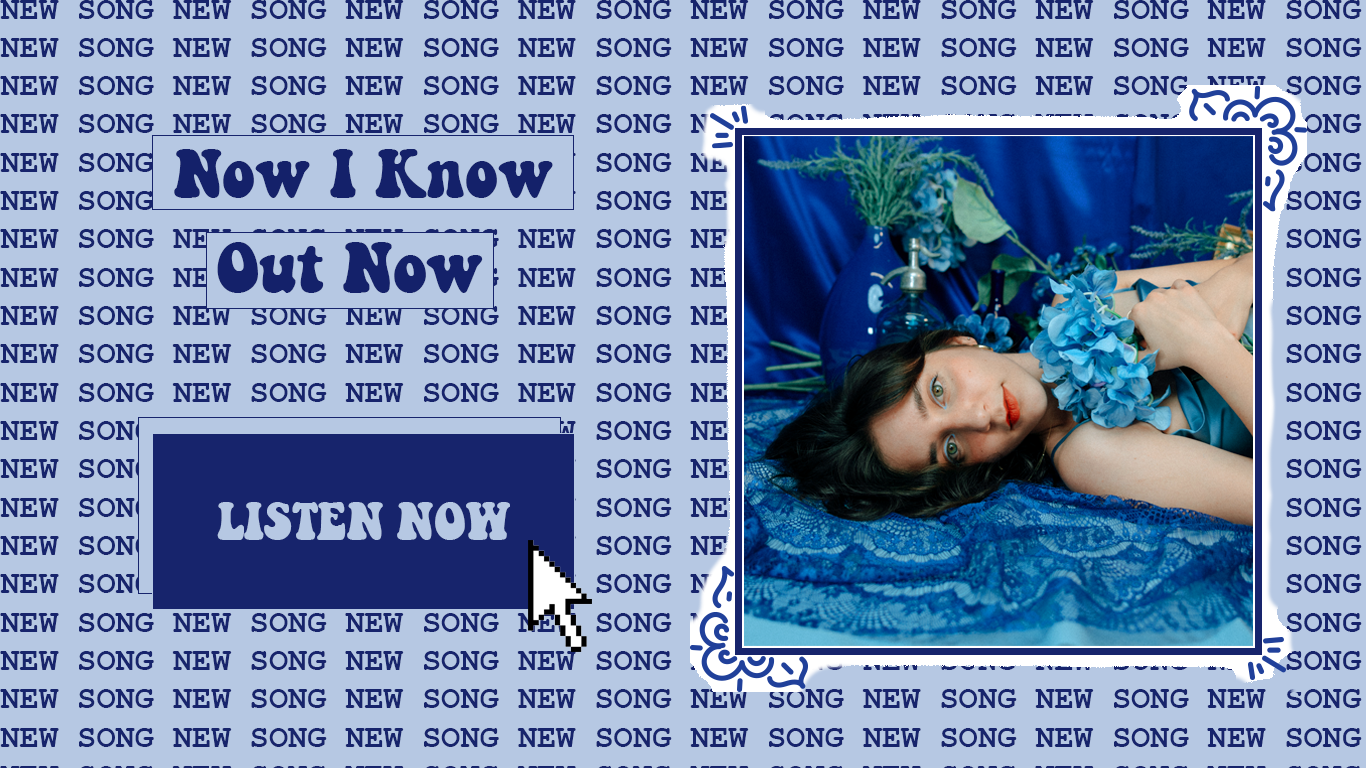
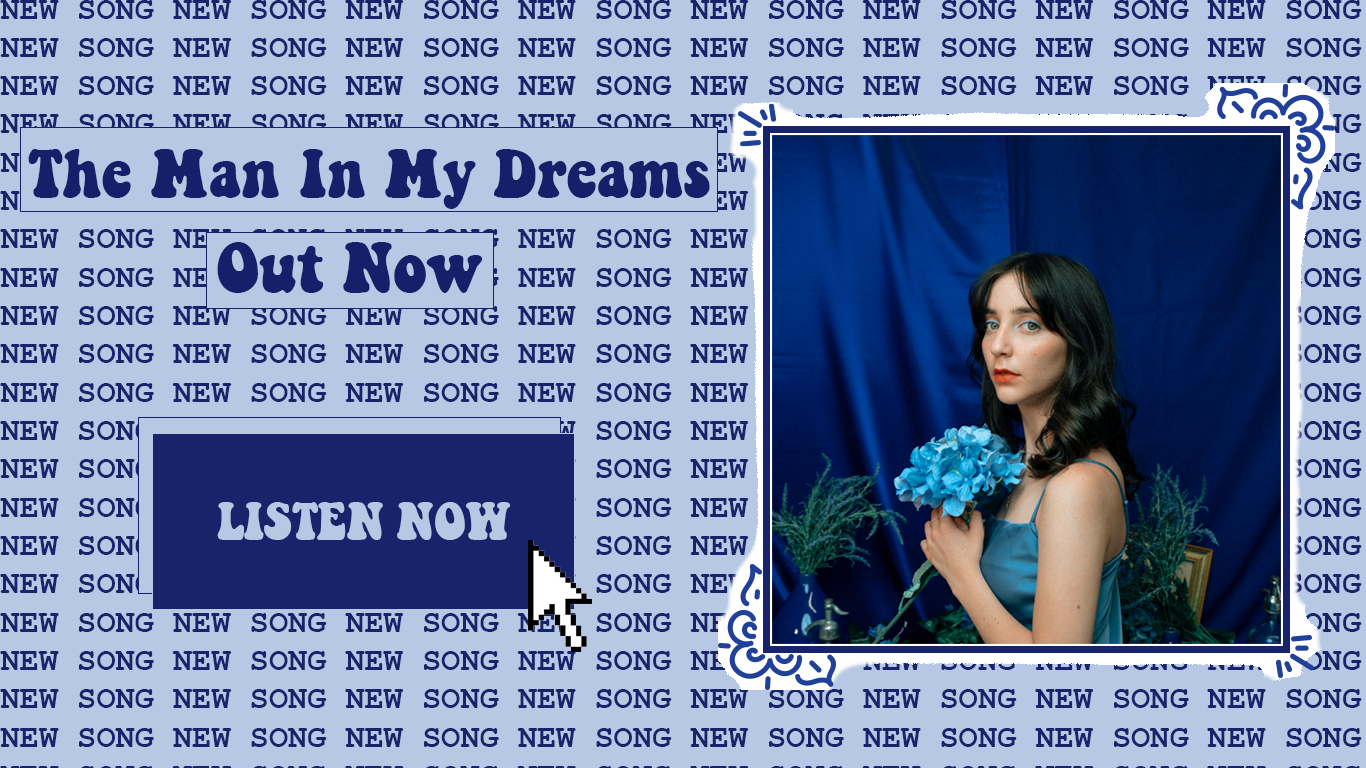
out now

Changed region(s): [[0.0, 0.0938, 0.9839, 0.9062]]

diff --git a/src/news/News.js b/src/news/News.js
@@ -13,7 +13,7 @@ import W from '../assets/letters/W-G.svg';
 import S from '../assets/letters/S-G.svg';
 
 
-const images = [{image: slide2, mobile: slide2m, link: 'https://dafna.fanlink.to/NowIKnow'},{image: slide1, mobile: slide1m, link: 'https://shop.dafna.rocks'}];
+const images = [{image: slide2, mobile: slide2m, link: 'https://dafna.fanlink.to/TheManInMyDreams'},{image: slide1, mobile: slide1m, link: 'https://shop.dafna.rocks'}];
 
 const News = () => {
     return(
